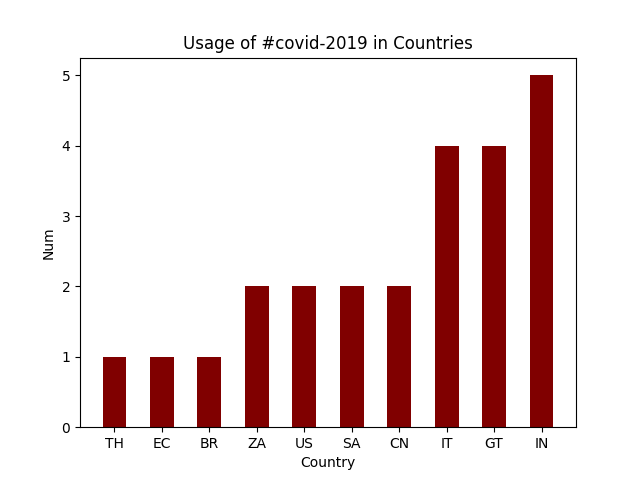
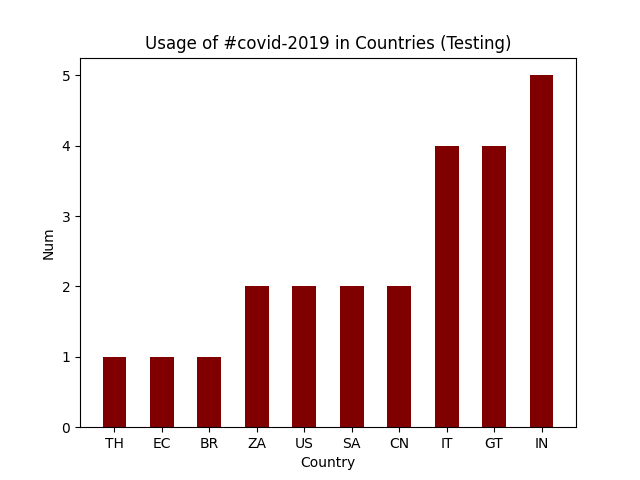
testing

Changed region(s): [[0.2188, 0.0625, 0.7188, 0.125], [0.75, 0.0625, 0.8125, 0.125]]

diff --git a/src/visualize.py b/src/visualize.py
@@ -57,7 +57,7 @@ plt.bar(key, value, color = 'maroon', width = 0.5)
 if args.input_path == "reduced.country":
     plt.xlabel("Country")
     plt.ylabel("Num")
-    plt.title("Usage of " + args.key + " in Countries")
+    plt.title("Usage of " + args.key + " in Countries (Testing)")
 else:
     plt.xlabel("Language")
     plt.ylabel("Num")
